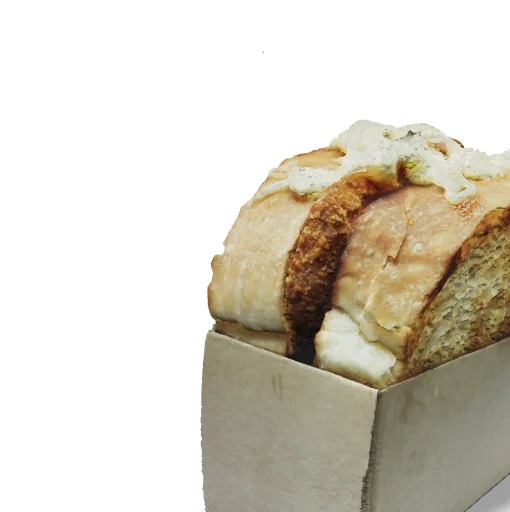
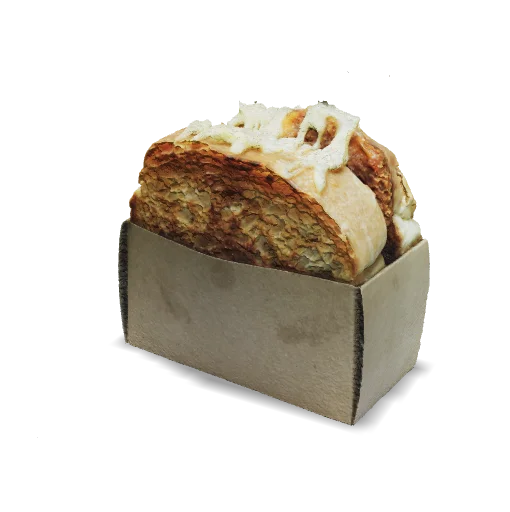
Add files via upload

diff --git a/index.html b/index.html
@@ -11,7 +11,7 @@
   </head>
   <body>
     <!-- <model-viewer> HTML element -->
-    <model-viewer bounds="tight" src="toast_trial_big.glb" ar ar-modes="scene-viewer webxr quick-look" camera-controls poster="poster.webp" shadow-intensity="3.8" exposure="1.53" camera-orbit="-327.3deg 70.09deg auto" environment-image="neutral">
+    <model-viewer bounds="tight" src="toast_trial_big.glb" ar ar-modes="scene-viewer webxr quick-look" camera-controls poster="poster.webp" shadow-intensity="3.8" exposure="1.53" camera-orbit="-422.2deg 65.18deg auto" environment-image="neutral">
       <div class="progress-bar hide" slot="progress-bar">
           <div class="update-bar"></div>
       </div>

diff --git a/styles.css b/styles.css
@@ -11,8 +11,8 @@ body {
 
 model-viewer {
   width: 100%;
-  height: 100%;
-  background-color: transparent;
+  height: 90%;
+  background-color: #ffffff;
 }
 
 
